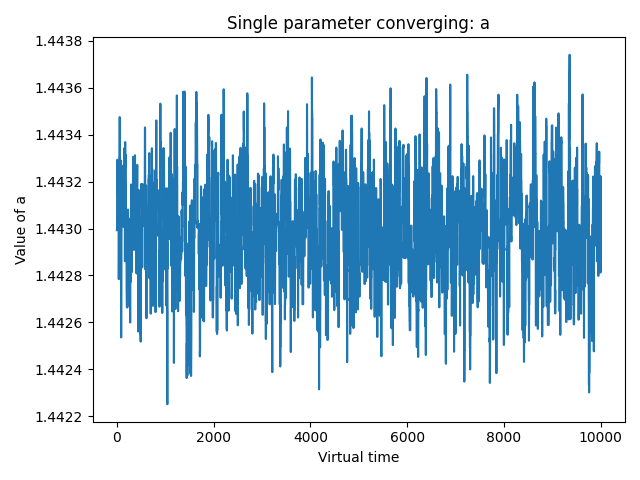
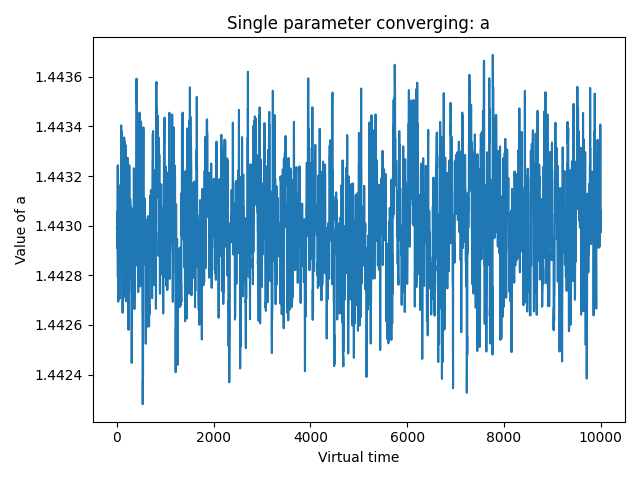
mcmc finished

diff --git a/pset04/mcmc/problem1.py b/pset04/mcmc/problem1.py
@@ -285,7 +285,7 @@ if __name__=="__main__":
     ### Problem 1f
     # The paremeters m6 are the mean, the 
     cov_chol = np.linalg.cholesky(covar)
-    n = 20
+    n = 5
     dm = np.random.normal(size=(6,n)) # sample from the sample normal
     m_realizations = np.vstack([m for _ in range(n)]).T + cov_chol@dm
     chisq = (d-A3(m6,t)).T@(d-A3(m6,t))/sigma**2
@@ -311,6 +311,11 @@ if __name__=="__main__":
     step_size = 1.0 # Determines size of step
     # Run chain
     params, chisq = mcmc(d,A3,m6,t,covar,sigma,nstep,step_size)
+    mean_params = np.mean(params,axis=1)
+    std_params  = np.std(params,axis=1)
+    print("INFO: MCMC best fit params are")
+    for name,val,std in zip(('a','b','c','t0','dt','w'),mean_params,std_params):
+        print(f"\t{name}={val:.4e} +- {std:.1e}")
     # Plot Chi-squared
     plt.figure()
     plt.title("Chi-squared")

diff --git a/pset04/README.md b/pset04/README.md
@@ -236,6 +236,75 @@ There isn't much of a difference for small pertubations. This is normal because 
 
 ## Problem 1g
 
+Our MCMC function looks like this
+
+```python
+def mcmc(d,A,m0,t,cov,sigma,nstep,step_size):
+    """Computes MCMC of chi-squared given our model A(m,t)
+
+    Parameters
+    ----------
+    d : np.ndarray
+        data
+    A : function
+        Evalueates the model, takes args (m,t)
+    m0 : array-like
+        Starting model parameters
+    t : np.ndarray
+        Times at which to evaluate LASER beam signal
+    cov : np.ndarray
+        Covariance matrix
+    sigma : float
+        The estimated noise.
+    nstep : int
+        Number of MCMC steps.
+    step_size : float
+        Scaling factor, positive float.
+
+    Returns
+    -------
+    np.ndarray
+        A trace of all parameters used along the chain.
+    np.ndarray 
+        A trace of all chi-squared values computed along the way. 
+        Shape = (nparams, nsteps)
+    """
+    # Define chi-squared function
+    def chi_squared(m0):
+        return (d-A(m0,t)).T@(d-A(m0,t))/sigma**2
+    # Take Cholesky decomposition to speed things up
+    cov_chol = np.linalg.cholesky(cov)
+    # Initiate model parameter tracer vectors
+    params_trace = np.zeros((len(m0),nstep))
+    chisq_trace  = np.zeros(nstep)
+    # Compute chisquared
+    params_trace[:,0] = m0.copy()
+    chisq_trace[0]    = chi_squared(m0)
+    # Main loop, wonder around a bit
+    for idx in range(1,nstep):
+        # Update param
+        randvec = np.random.normal(size=m0.shape)
+        m = params_trace[:,idx-1] + step_size*cov_chol@randvec
+        # Compute accept probability
+        chisq = chi_squared(m)
+        delta_chisq = chisq - chisq_trace[idx-1]
+        # Acceptance probability, determine whether to accept step
+        p = np.exp(-0.5*delta_chisq)
+        if np.random.rand() < p:
+            # Update parameters
+            params_trace[:,idx] = m
+            chisq_trace[idx]    = chisq
+        else:
+            # Stay put
+            params_trace[:,idx] = params_trace[:,idx-1]
+            chisq_trace[idx]    = chisq_trace[idx-1]
+    return params_trace, chisq_trace
+```
+
+After running the MCMC for long enough, we find that the average parameters agree with our best-fit parameters found with the newton iterations. 
+
+The errors estimated by taking the standard deviation of our MCMC random walker also agrees pretty well with our previous results, except for `std(w)`, which is `4.5e-09`, and was previously estimated at `3.4e-17`. 
+
 
 ![1g_param_a](https://user-images.githubusercontent.com/21654151/195974534-d7b73c3c-2080-4b82-a8d1-7aa8a05f7703.png)
 ![1g_param_means_converging](https://user-images.githubusercontent.com/21654151/195974536-8c6d5c3c-c6d8-4a53-96c5-6e4d440da740.png)
@@ -245,6 +314,7 @@ There isn't much of a difference for small pertubations. This is normal because 
 
 ## Problem 1h
 
+Compute the width of a cavity
 
 
 
